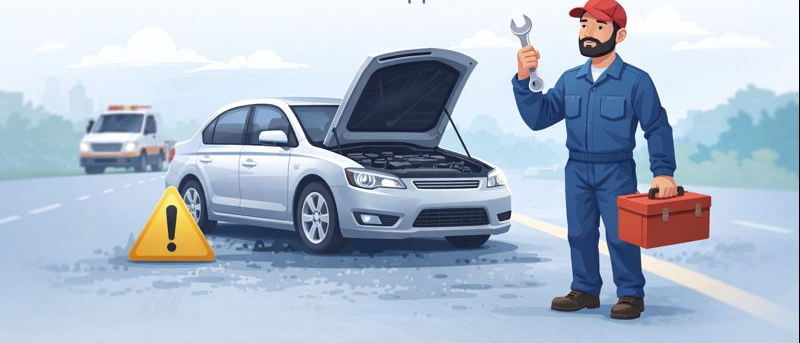
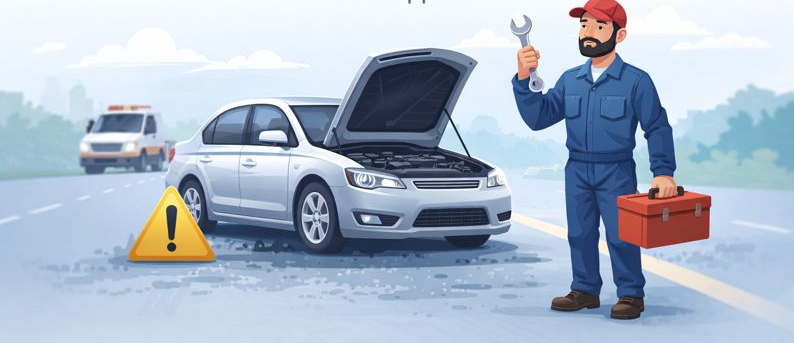
update the service section part 2

diff --git a/src/pages/Home.jsx b/src/pages/Home.jsx
@@ -79,8 +79,8 @@ const Home = () => {
           <div style={{
             backgroundColor: '#FFFFFF',
             borderRadius: '12px',
-            padding: '1.25rem',
-            width: '250px',
+            padding: '2.5rem',
+            width: '380px',
             textAlign: 'center',
             border: '1px solid #E5E7EB',
             boxShadow: '0 10px 24px rgba(17, 24, 39, 0.08)',
@@ -99,14 +99,16 @@ const Home = () => {
               alt="Breakdown Repair" 
               style={{
                 width: '100%',
-                height: '120px',
+                height: '200px',
                 objectFit: 'contain',
-                borderRadius: '8px',
-                marginBottom: '1rem'
+                borderRadius: '20px',
+                marginBottom: '1.5rem',
+                border: '3px solid rgba(166, 75, 10, 0.1)',
+                boxShadow: '0 0 20px rgba(166, 75, 10, 0.15)'
               }}
             />
             <h3 style={{
-              fontSize: '1.1rem',
+              fontSize: '1.4rem',
               fontWeight: 700,
               color: '#111827'
             }}>Breakdown Repair</h3>
@@ -115,8 +117,8 @@ const Home = () => {
           <div style={{
             backgroundColor: '#FFFFFF',
             borderRadius: '12px',
-            padding: '1.25rem',
-            width: '250px',
+            padding: '2.5rem',
+            width: '380px',
             textAlign: 'center',
             border: '1px solid #E5E7EB',
             boxShadow: '0 10px 24px rgba(17, 24, 39, 0.08)',
@@ -135,14 +137,16 @@ const Home = () => {
               alt="Scheduled Service" 
               style={{
                 width: '100%',
-                height: '120px',
+                height: '200px',
                 objectFit: 'contain',
-                borderRadius: '8px',
-                marginBottom: '1rem'
+                borderRadius: '20px',
+                marginBottom: '1.5rem',
+                border: '3px solid rgba(166, 75, 10, 0.1)',
+                boxShadow: '0 0 20px rgba(166, 75, 10, 0.15)'
               }}
             />
             <h3 style={{
-              fontSize: '1.1rem',
+              fontSize: '1.4rem',
               fontWeight: 700,
               color: '#111827'
             }}>Scheduled Service</h3>
@@ -151,8 +155,8 @@ const Home = () => {
           <div style={{
             backgroundColor: '#FFFFFF',
             borderRadius: '12px',
-            padding: '1.25rem',
-            width: '250px',
+            padding: '2.5rem',
+            width: '380px',
             textAlign: 'center',
             border: '1px solid #E5E7EB',
             boxShadow: '0 10px 24px rgba(17, 24, 39, 0.08)',
@@ -171,14 +175,16 @@ const Home = () => {
               alt="Emergency Pickup" 
               style={{
                 width: '100%',
-                height: '120px',
+                height: '200px',
                 objectFit: 'contain',
-                borderRadius: '8px',
-                marginBottom: '1rem'
+                borderRadius: '20px',
+                marginBottom: '1.5rem',
+                border: '3px solid rgba(166, 75, 10, 0.1)',
+                boxShadow: '0 0 20px rgba(166, 75, 10, 0.15)'
               }}
             />
             <h3 style={{
-              fontSize: '1.1rem',
+              fontSize: '1.4rem',
               fontWeight: 700,
               color: '#111827'
             }}>Emergency Pickup</h3>

diff --git a/src/pages/CustomerDashboard.css b/src/pages/CustomerDashboard.css
@@ -238,8 +238,8 @@
   background-color: #FFFFFF;
   color: #111827;
   border-radius: 0.875rem;
-  padding: 1rem;
-  width: clamp(180px, 30vw, 200px);
+  padding: 2.5rem;
+  width: clamp(300px, 35vw, 380px);
   transition: transform 0.2s ease, box-shadow 0.2s ease;
   border: 1px solid #E5E7EB;
   box-shadow: 0 10px 24px rgba(17, 24, 39, 0.06);
@@ -252,14 +252,16 @@
 
 .service-cards img {
   width: 100%;
-  height: clamp(100px, 20vw, 120px);
-  object-fit: cover;
-  border-radius: 0.5rem;
-  margin-bottom: 0.8rem;
+  height: clamp(160px, 25vw, 200px);
+  object-fit: contain;
+  border-radius: 20px;
+  margin-bottom: 1.5rem;
+  border: 3px solid rgba(166, 75, 10, 0.1);
+  box-shadow: 0 0 20px rgba(166, 75, 10, 0.15);
 }
 
 .service-cards h3 {
-  font-size: clamp(1rem, 3.5vw, 1.2rem);
+  font-size: clamp(1.1rem, 4vw, 1.4rem);
   font-weight: 700;
 }
 
@@ -503,11 +505,12 @@
   }
 
   .service-cards .card {
-    width: clamp(160px, 45vw, 180px);
+    width: clamp(260px, 45vw, 320px);
+    padding: 2rem;
   }
 
   .service-cards img {
-    height: clamp(90px, 25vw, 100px);
+    height: clamp(140px, 30vw, 180px);
   }
 
   .bookings { padding: 1rem; }
